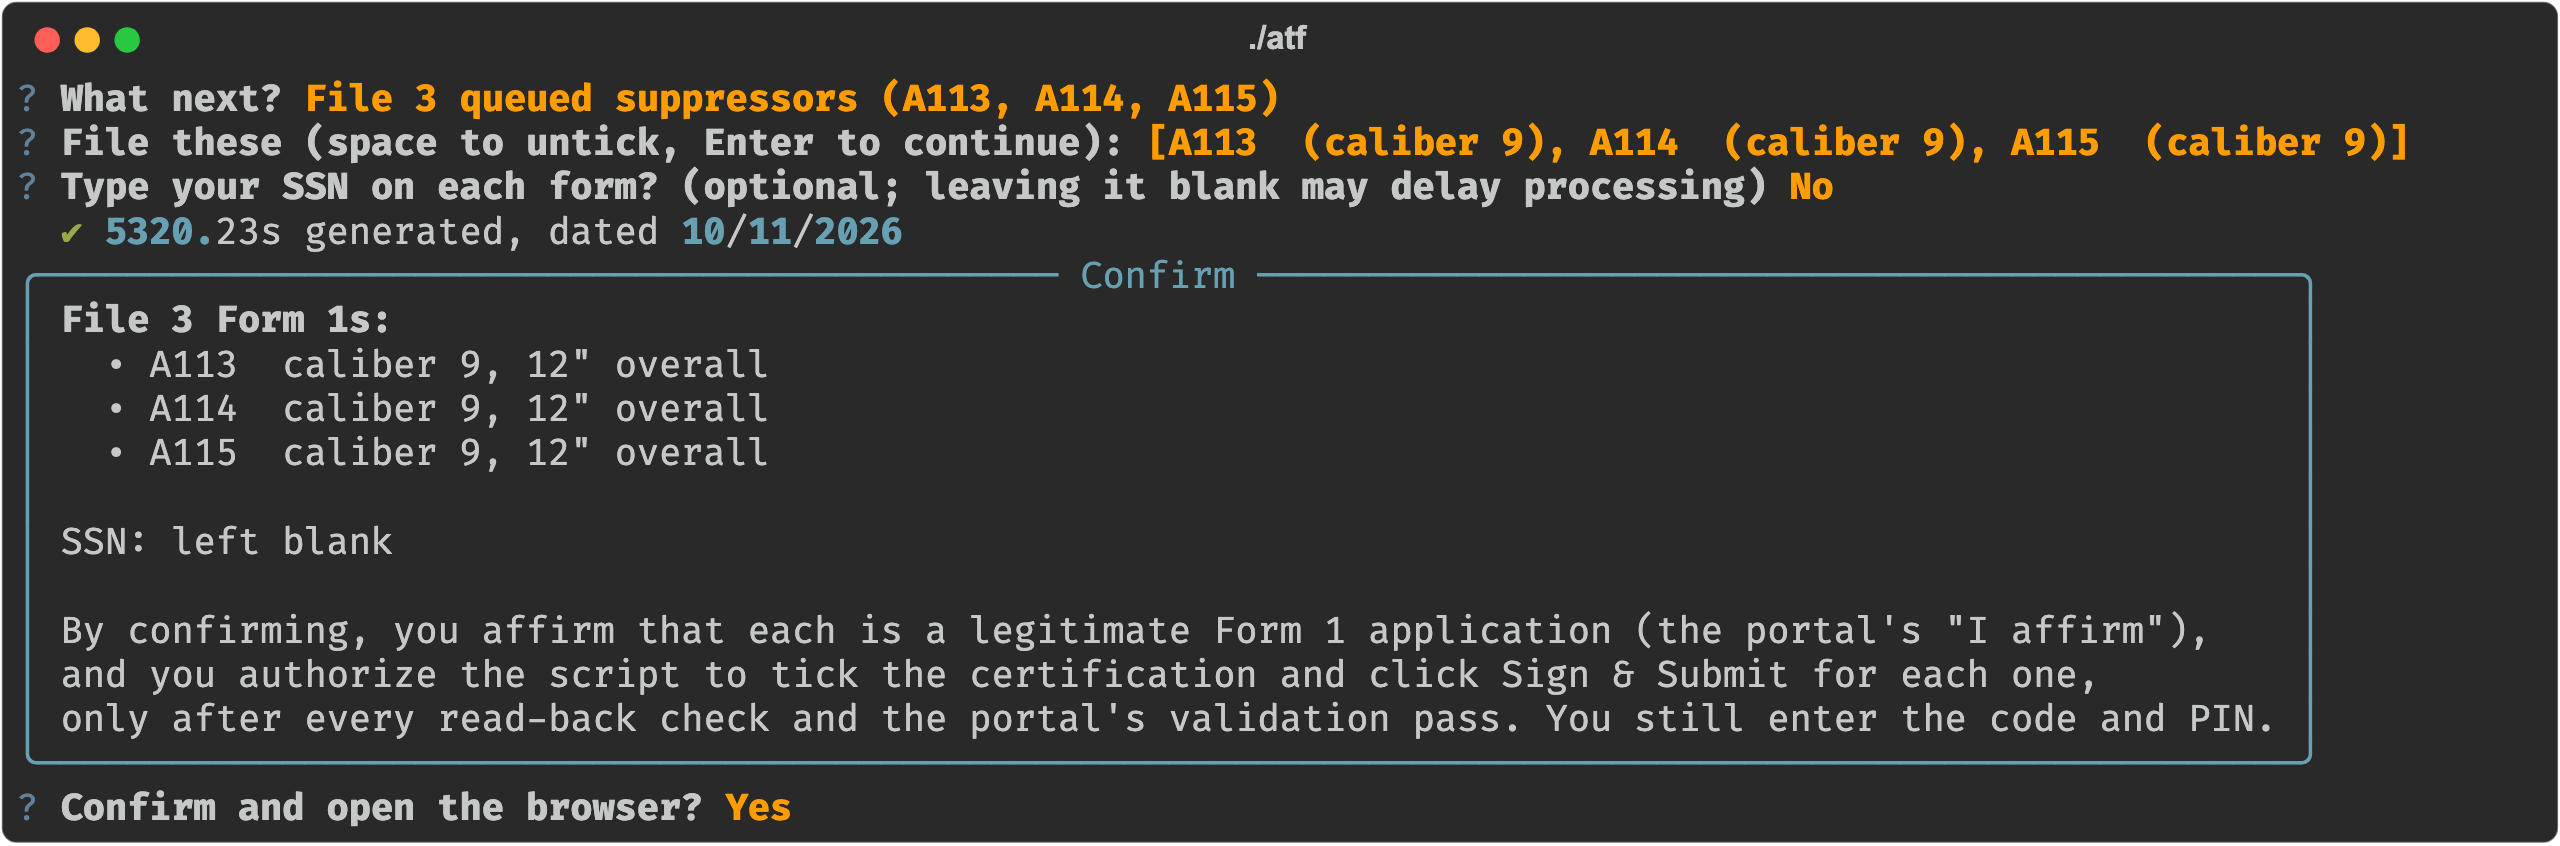
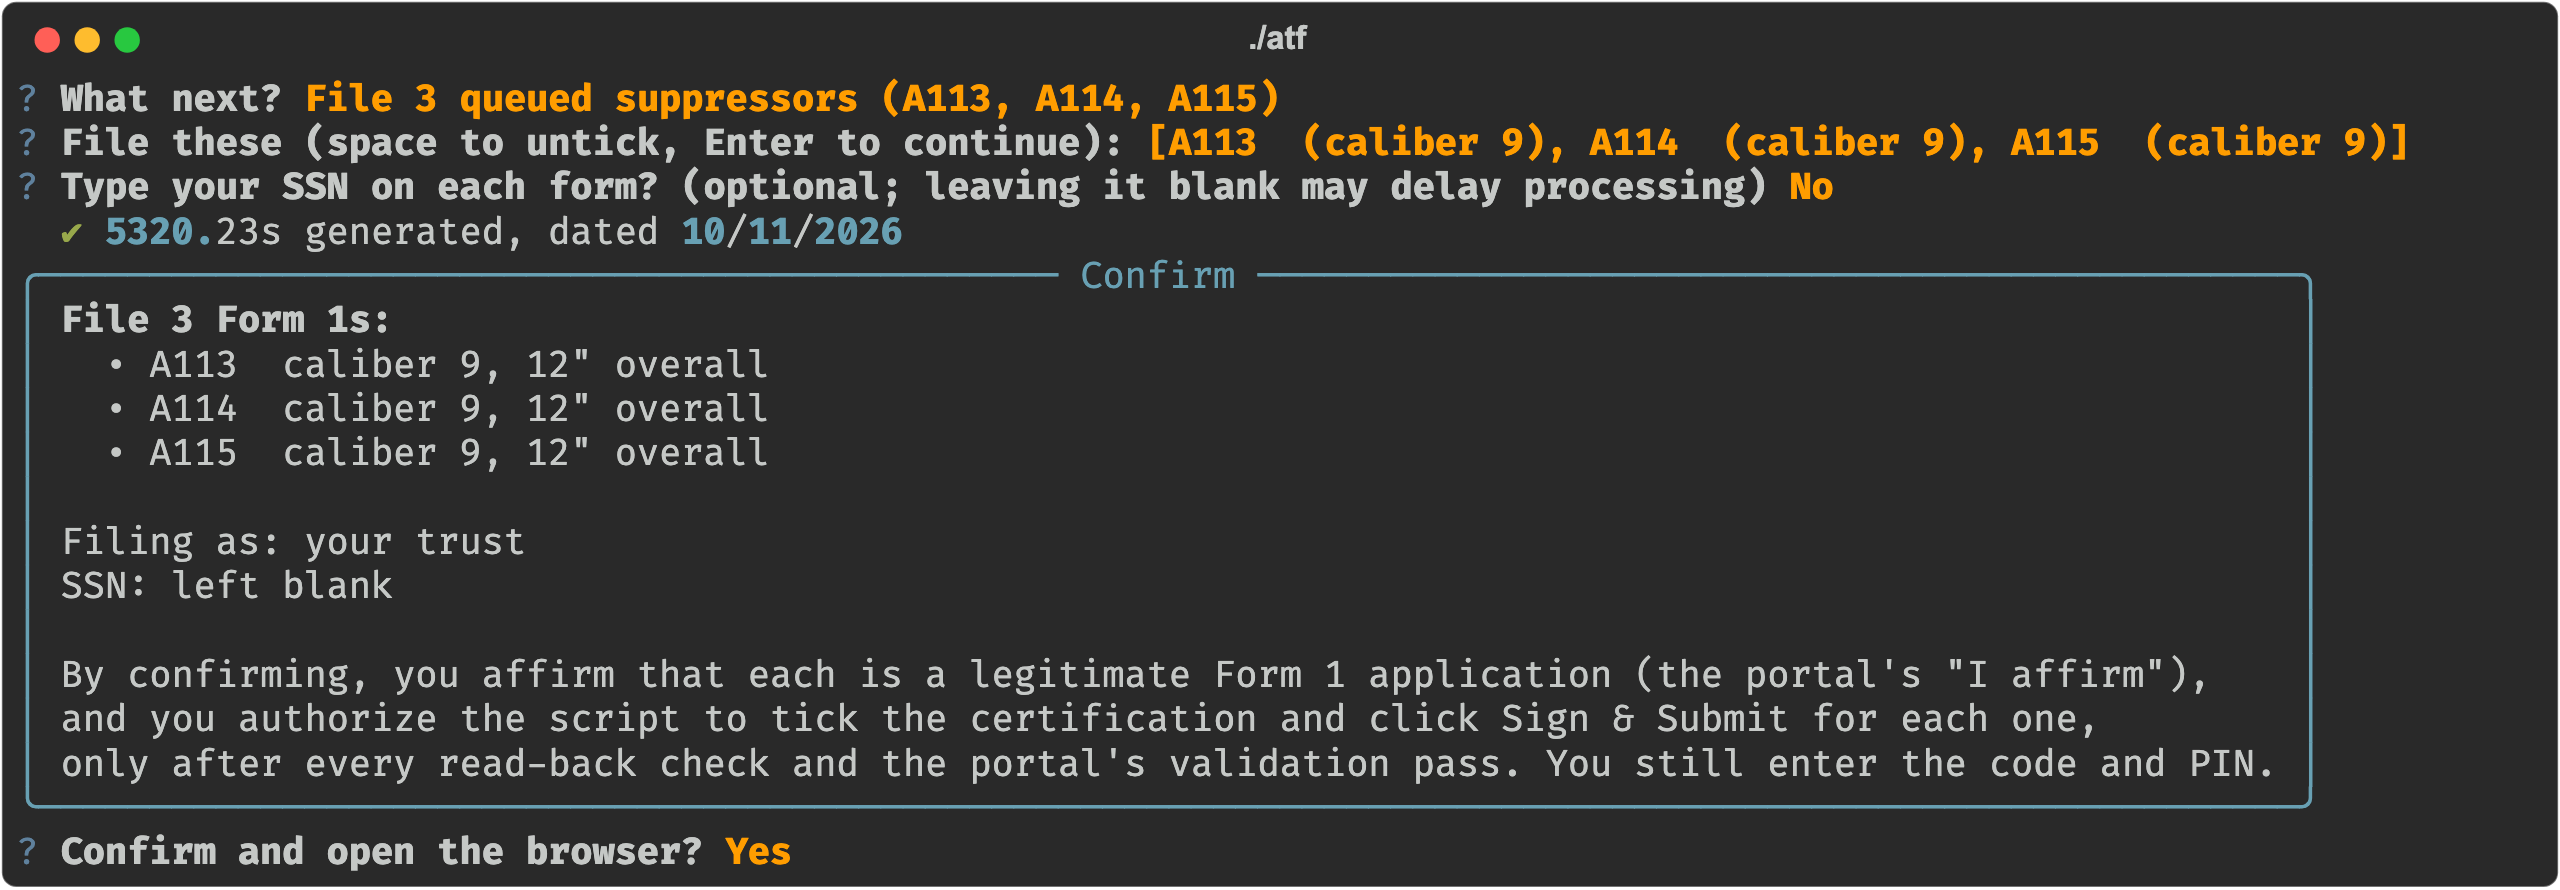
README: practice run first, filing steps and checks as they are now; individual screenshots
- Practice run before the first real batch; y + Enter for questions that open the browser or file.
- Filing: Filing as (trust/individual), login check, fingerprint confirmation, what the read-back compares.
- Troubleshooting: not logged in yet, no 'Valid EBTS Package', a read-back mismatch.
- Screenshots 08/09: confirming and the read-back when filing as an individual (made-up data); 03 shows 'Filing as'.

diff --git a/docs/make_screenshots.py b/docs/make_screenshots.py
@@ -233,8 +233,49 @@ def shot_approvals():
     ui.approvals_flow()
 
 
+def shot_individual():
+    """Filing as an individual: the confirmation (08) and the verify-page read-back (09). Same made-up data."""
+    path = atf.DATA / "trust.yaml"
+    t = yaml.safe_load(path.read_text(encoding="utf-8"))
+    t["applicant_type"] = "individual"
+    t["individual"] = {"answers": {q: "No" for q, _ in atf.QUESTIONS_11}, "upin": ""}
+    t.pop("trust", None)
+    t["files"].pop("trust_document", None)
+    path.write_text(yaml.safe_dump(t, sort_keys=False), encoding="utf-8")
+    rows = atf.load_rows()
+    answered("What next?", menu_titles(rows)[0])
+    pick_all = lambda kw: [c.value for c in kw["choices"] if c.checked]  # noqa: E731
+    script(pick_all, False, True)
+
+    def replay(*a):
+        cut("08-individual-confirm")
+        e = ui.P.emit
+        e("row", "", serial="A113", caliber="9")
+        for name in ("CLEO", "Firearm: manufacturer", "Firearm: details", "Firearm: supporting documents", "Attachments"):
+            e("section", "", name=name)
+        ui.con.export_svg(clear=True)  # the picture starts at the verify page
+        e("section", "", name="Read-back check")
+        for label, want in (("Serial number", "A113"), ("Model", "N/A"), ("Type", "SILENCER"), ("Caliber", "9"),
+                            ("Overall length", "12")):
+            e("expect", "", label=label, want=want, got=want, ok=True)
+        for q, _ in atf.QUESTIONS_11:
+            e("expect", "", label=f"Answer {q}", want="No", got="NO", ok=True)
+        e("expect", "", label="Answer 11.M.2", want="N/A", got="N/A", ok=True)
+        e("expect", "", label="Citizenship", want="UNITED STATES", got="UNITED STATES", ok=True)
+        e("section", "", name="Certify")
+        ui.P._close()
+        cut("09-individual-readback")
+        raise Cut
+    atf.file_rows = replay
+    try:
+        ui.file_flow()
+    except Cut:
+        pass
+
+
 SHOTS = [("01-home", shot_home), ("02-add", shot_add), (None, shot_file),  # shot_file makes 03-file and 04-filing
-         ("05-inventory", shot_inventory), ("06-sbrs", shot_sbrs), ("07-approvals", shot_approvals)]
+         ("05-inventory", shot_inventory), ("06-sbrs", shot_sbrs), ("07-approvals", shot_approvals),
+         (None, shot_individual)]  # 08-individual-confirm, 09-individual-readback (last: it switches the settings)
 
 
 def to_png(svg, dest):

diff --git a/README.md b/README.md
@@ -29,6 +29,12 @@ You enter the emailed code and your PIN.
 ![Confirming a batch](docs/screenshots/03-file.png)
 ![Filing a form](docs/screenshots/04-filing.png)
 
+**Filing as an individual:** the same, without the 5320.23 and trust document. Your answers to questions 11.A-11.M
+are shown in the confirmation, then read back on the verify page, with your citizenship, before it signs.
+
+![Confirming a batch as an individual](docs/screenshots/08-individual-confirm.png)
+![Read-back as an individual](docs/screenshots/09-individual-readback.png)
+
 **Inventory** (suppressors and SBRs) and **Check approvals**, which reads your approved Form 1s from eForms and
 compares them with your records.
 
@@ -106,7 +112,15 @@ of all the packages yet; the installer skips it and asks you to add 3.13 next to
 Mac: `./atf`  Windows: `.\atf.cmd` (always with the `.cmd`)
 
 The first run asks whether you file through a trust or as an individual, then for your details, CLEO and files
-(Settings; change them any time, including switching between trust and individual). Then:
+(Settings; change them any time, including switching between trust and individual).
+
+**Before your first real batch, do a practice run:** add a suppressor (a test serial like `TEST1` is fine), then
+Advanced > **Practice run**. It fills a whole Form 1 in eForms and shows the read-back table, then stops: it never
+signs or submits. Every row should have a ✔. Afterwards remove the test row (Edit or remove a queued suppressor) and
+delete the draft in your eForms dashboard (drafts are also deleted after 90 days).
+
+Questions that open the browser or file something take **y and then Enter** (a key on its own doesn't count, so a
+stray keypress can't start anything). Then:
 
 - **Add suppressors**: asks how many (Enter = 1), then the (first) serial, caliber and overall length, suggesting the
   next serial and your last caliber and length. For several, it numbers them in sequence (e.g. A101 … A110) with the same
@@ -117,19 +131,24 @@ The first run asks whether you file through a trust or as an individual, then fo
   approved), filed date, days waiting or approval date, and a ⚠ for approvals with conditions. Filter by Approved /
   In progress / Queued, or **Show SBRs** for your approved SBRs. From there you can also open any approved Form 1 PDF
   and **export to Excel** (`out/inventory_<date>.xlsx`, with an SBRs sheet). The home screen shows a one-line summary.
-- **File N queued suppressors**: pick the rows, say whether you want to type your SSN on each form, confirm (this is
-  your "I affirm" and your OK to Sign & Submit each one once every check passes). A browser opens: log in, wait for
-  the eForms home page, press Enter. For each suppressor it fills the form, shows each page ticked off and a read-back
-  table, then a yellow **"Your turn in the browser"** box: enter the emailed code, Verify, enter your PIN, Submit.
-- **Check approvals on eForms**: read-only. After you log in it lists your approved Form 1s, saves each one's PDF to
+- **File N queued suppressors**: pick the rows and say whether you want to type your SSN on each form. Trusts: it
+  makes each suppressor's 5320.23, dated today. One confirmation lists the batch and says whether you're filing as
+  your trust or as an individual (with your saved answers to questions 11.A-11.M); confirming is your "I affirm" and
+  your OK to Sign & Submit each one once every check passes. A browser opens: log in (MFA included), wait for the
+  eForms home page, press Enter; it checks you're really logged in before it starts. For each suppressor it fills the
+  form, shows each page ticked off, waits for eForms to confirm your fingerprints ("Valid EBTS Package"), and shows a
+  read-back table comparing what eForms will certify with what you meant (serial, model, type, caliber, length, and
+  the trust name or your answers and citizenship). Only if everything matches does it sign; then a yellow **"Your
+  turn in the browser"** box: enter the emailed code, Verify, enter your PIN, Submit.
+- **Check approvals on eForms**: read-only. After you log in (and press Enter) it lists your approved Form 1s, saves each one's PDF to
   `out/approved/` (only new ones on later runs), reads the serial, caliber and overall length from each, and reports
   your suppressors: matching your records, differing (caliber/length), approved but not in your records, and filed
   but not approved yet. Approved SBRs go into a separate SBR inventory (`data/sbrs.csv`: caliber, model, barrel and
   overall length, approval date); other types are only counted. Approvals are recorded in your inventory, and it
   offers to add approved suppressors that aren't in it yet (e.g. ones you filed before using this tool).
 - **⚠ Resolve a pending row**: only if a confirmation was missed. Check the eForms dashboard, then say whether it was filed.
-- **Advanced**: preview the steps without a browser; a **practice run** that fills a form in eForms and stops before
-  signing (nothing is submitted; the row stays queued); regenerate a 5320.23 with another date (trusts); re-file;
+- **Advanced**: **practice run** (fills a form in eForms and stops before signing; nothing is submitted, the row
+  stays queued); preview the steps without a browser; regenerate a 5320.23 with another date (trusts); re-file;
   capture portal pages if ATF changes the site.
 
 Ctrl-C is safe at any point: it logs you out of eForms first (eForms allows one session at a time).
@@ -144,7 +163,13 @@ Everything personal lives in `data/`, `forms/`, `out/` and `.browser-profile/` (
 never committed. **Never zip or copy this folder to share it**; share the git repository instead.
 
 ## Troubleshooting
+- "The browser isn't logged in to eForms yet": you pressed Enter before the login (MFA included) finished. Finish
+  logging in until your eForms home page shows, then press Enter again (or type q to stop).
 - "Another user is logged in": a previous run didn't log out; wait ~15-30 min or log out in the other browser.
+- "no dialog said 'Valid EBTS Package'": eForms didn't confirm your fingerprint file within 60 seconds, so nothing is
+  submitted. Check the message in the browser; on Windows, make sure the `.eft` isn't an online-only OneDrive file.
+- A ✖ in the read-back table: eForms shows something other than what you meant, so it doesn't sign. Look at that
+  field in the browser.
 - A step fails: the browser stays open on that page; press Enter to log out. Check the eForms dashboard before filing
   that serial again. If ATF changed the site, the selectors in `config/mapping.yaml` need updating (see CLAUDE.md).
 - The plain command line is still underneath: `./atf fill-form1 --help` (Windows: `.\atf.cmd fill-form1 --help`).
